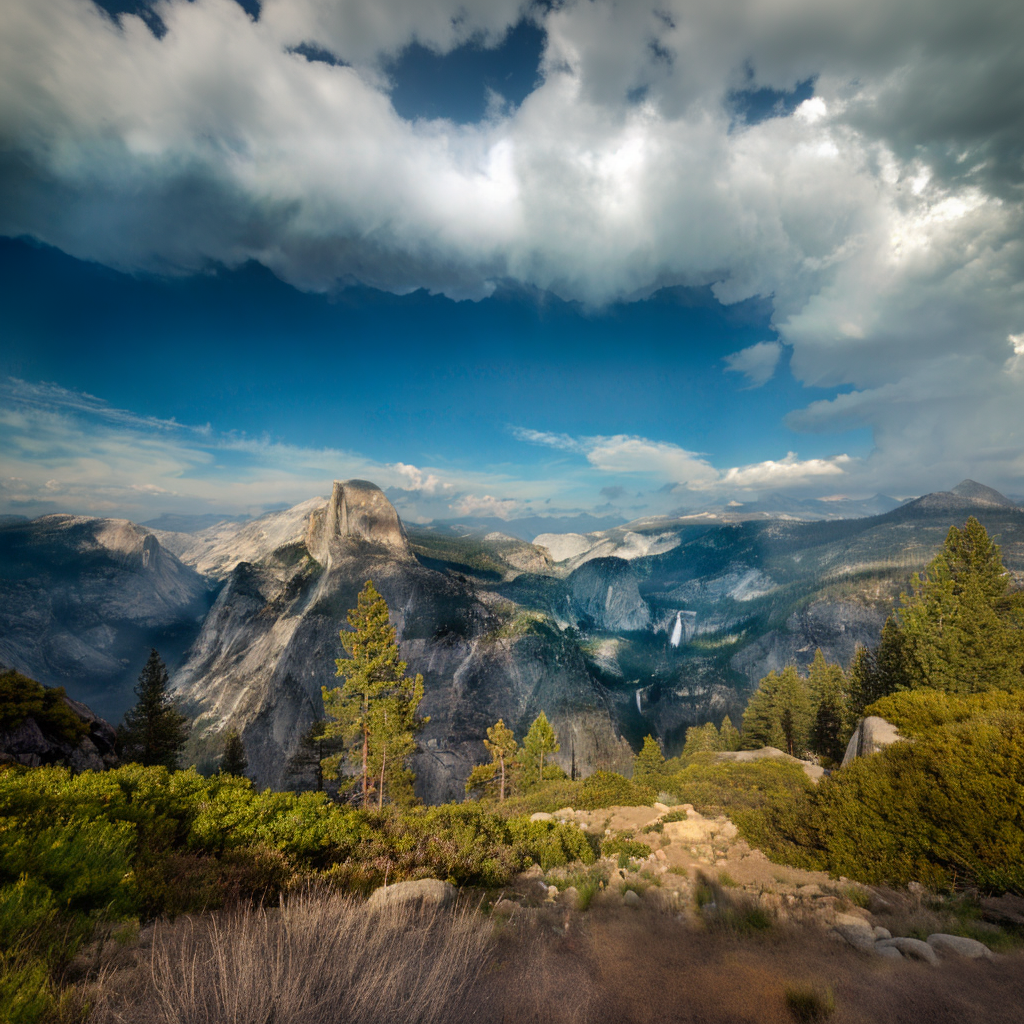
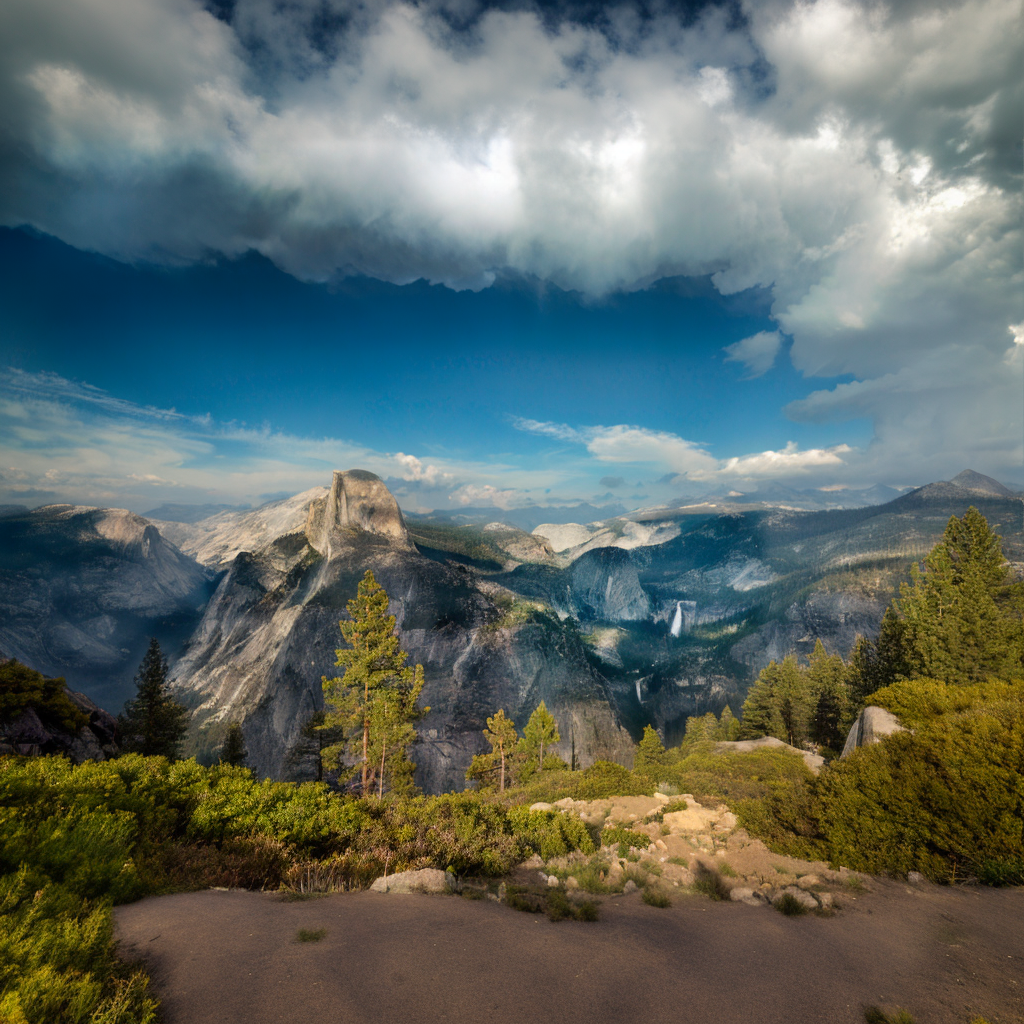
Update outpaint example.

diff --git a/inpaint/README.md b/inpaint/README.md
@@ -8,6 +8,8 @@ In this example we will be using this image. Download it and place it in your in
 
 This image has had part of it erased to alpha with gimp, the alpha channel is what we will be using as a mask for the inpainting. If using GIMP make sure you save the values of the transparent pixels for best results.
 
+ComfyUI also has a mask editor that can be accessed by right clicking an image in the LoadImage node and "Open in MaskEditor".
+
 
 The following images can be loaded in [ComfyUI](https://github.com/comfyanonymous/ComfyUI) to get the full workflow.
 
@@ -25,12 +27,12 @@ It also works with non inpainting models. Here's an example with the anythingV3 
 
 ### Outpainting
 
-You can also use these exact workflows for outpainting, first expand the canvas of the image in your favorite image editor filling it with transparency like in this input image where I expanded the top and bottom:
+You can also use similar workflows for outpainting. Outpainting is the same thing as inpainting. There is a "Pad Image for Outpainting" node to automatically pad the image for outpainting while creating the proper mask. In this example this image will be outpainted:
 
 ![Example](yosemite_outpaint_example.png)
 
 
-Using the v2 inpainting model the exact same way as the inpainting examples:
+Using the v2 inpainting model and the "Pad Image for Outpainting" node (load it in ComfyUI to see the workflow):
 
 ![Example](inpain_model_outpainting.png)
 

diff --git a/lora/README.md b/lora/README.md
@@ -1,6 +1,6 @@
 # Lora Examples
 
-These are examples demonstrating how to use Loras.
+These are examples demonstrating how to use Loras. All LoRA flavours: Lycoris, loha, lokr, locon, etc... are used this way.
 
 You can Load these images in [ComfyUI](https://github.com/comfyanonymous/ComfyUI) to get the full workflow.
 
